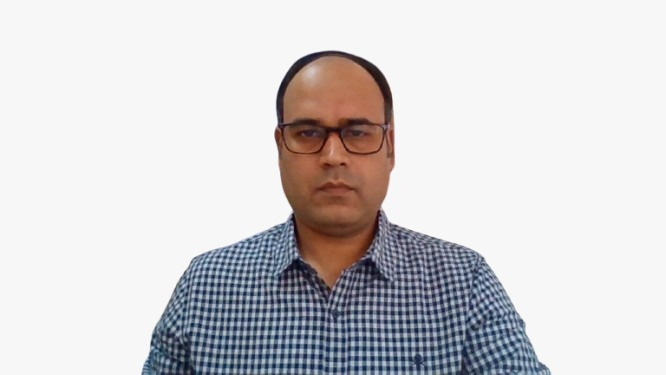
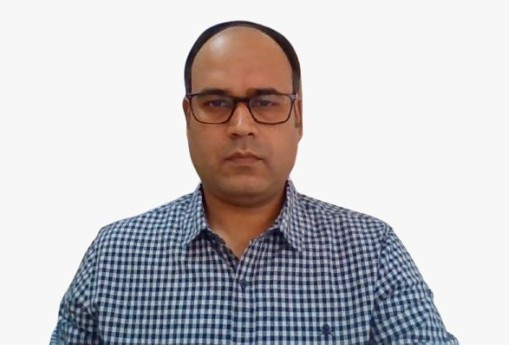
add

Changed region(s): [[0.0884, 0.058, 0.9136, 1.0]]

diff --git a/src/components/sections/About/CoreTeam.tsx b/src/components/sections/About/CoreTeam.tsx
@@ -1,24 +1,26 @@
 import Image from "next/image";
+import founder from "@/assets/images/founder.png";
+import cto from "@/assets/images/cto.jpeg";
 
+// Data.
 const teamMembers = [
   {
     name: "Dravinanshu Mishra",
     role: "Founder & Chairman",
     expertise: [
-      "Product Strategy",
-      "Full-Stack Development",
-      "React / Next.js Architecture",
+      "Product Vision & Strategy",
+      "Full-Stack Engineering",
+      "Technology Leadership",
     ],
-    image:
-      "https://images.unsplash.com/photo-1568602471122-7832951cc4c5?w=800&q=80",
+    image: founder,
   },
   {
     name: "Biplab Biswas",
     role: "Co-Founder & CEO",
     expertise: [
-      "Business Development",
-      "Enterprise Solutions",
-      "Operations & Growth",
+      "Business Strategy & Growth",
+      "Enterprise Partnerships",
+      "Operations Leadership",
     ],
     image:
       "https://images.unsplash.com/photo-1500648767791-00dcc994a43e?w=800&q=80",
@@ -27,12 +29,11 @@ const teamMembers = [
     name: "Prashant Sharma",
     role: "Co-Founder & CTO",
     expertise: [
-      ".NET Architecture",
-      "Software Engineering",
-      "Technology Leadership",
+      "Software Architecture",
+      "Engineering Excellence",
+      "Innovation & Technology Strategy",
     ],
-    image:
-      "https://images.unsplash.com/photo-1506794778202-cad84cf45f1d?w=800&q=80",
+    image: cto,
   },
 ];
 
@@ -61,8 +62,7 @@ const leadershipQuotes = [
       "We don't build software for today. We engineer systems that remain scalable, secure, and adaptable for the next decade.",
     name: "Dravinanshu Mishra",
     designation: "Founder & Chairman",
-    image:
-      "https://images.unsplash.com/photo-1568602471122-7832951cc4c5?w=200&q=80",
+    image: founder,
   },
   {
     quote:
@@ -77,8 +77,7 @@ const leadershipQuotes = [
       "Technology is most powerful when it is built on strong architecture, clean engineering principles, and a vision for long-term innovation.",
     name: "Prashant Sharma",
     designation: "Co-Founder & CTO",
-    image:
-      "https://images.unsplash.com/photo-1506794778202-cad84cf45f1d?w=200&q=80",
+    image: cto,
   },
 ];
 
@@ -193,9 +192,7 @@ const CoreTeam = () => {
                 key={item.name}
                 className="rounded-3xl border border-white/10 bg-linear-to-br from-[#08112F] to-[#10204F] p-8"
               >
-                <span className="text-6xl font-bold leading-none text-[#0E6AFA]">
-                  
-                </span>
+                <span className="text-6xl font-bold leading-none text-[#0E6AFA]"></span>
 
                 <p className="mt-4 min-h-45 italic leading-8 text-slate-300">
                   {item.quote}
@@ -213,9 +210,7 @@ const CoreTeam = () => {
                   <div>
                     <h4 className="font-semibold">{item.name}</h4>
 
-                    <p className="text-sm text-slate-400">
-                      {item.designation}
-                    </p>
+                    <p className="text-sm text-slate-400">{item.designation}</p>
                   </div>
                 </div>
               </div>
@@ -225,9 +220,7 @@ const CoreTeam = () => {
 
         {/* CTA */}
         <div className="mt-24 rounded-3xl border border-white/10 bg-linear-to-r from-[#08112F] to-[#10204F] p-10 text-center">
-          <h3 className="text-3xl font-bold">
-            Building the Future Together
-          </h3>
+          <h3 className="text-3xl font-bold">Building the Future Together</h3>
 
           <p className="mx-auto mt-5 max-w-3xl leading-8 text-slate-400">
             Our multidisciplinary team combines deep technical expertise,